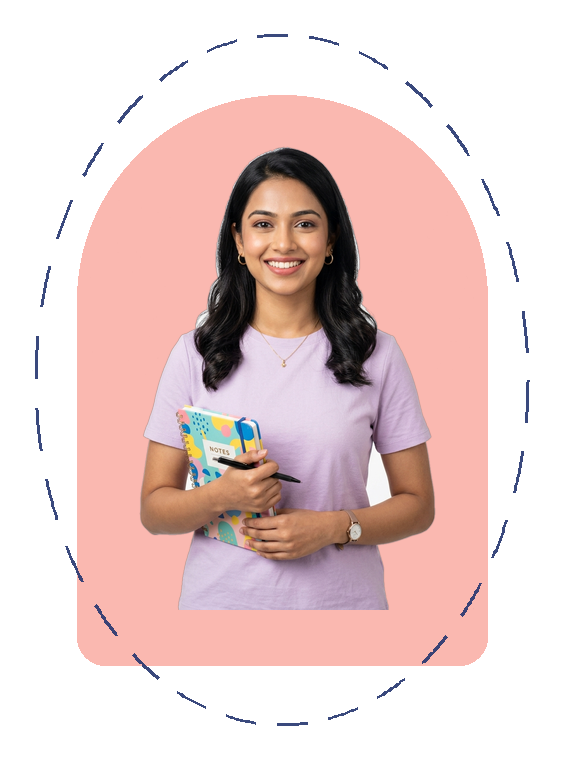
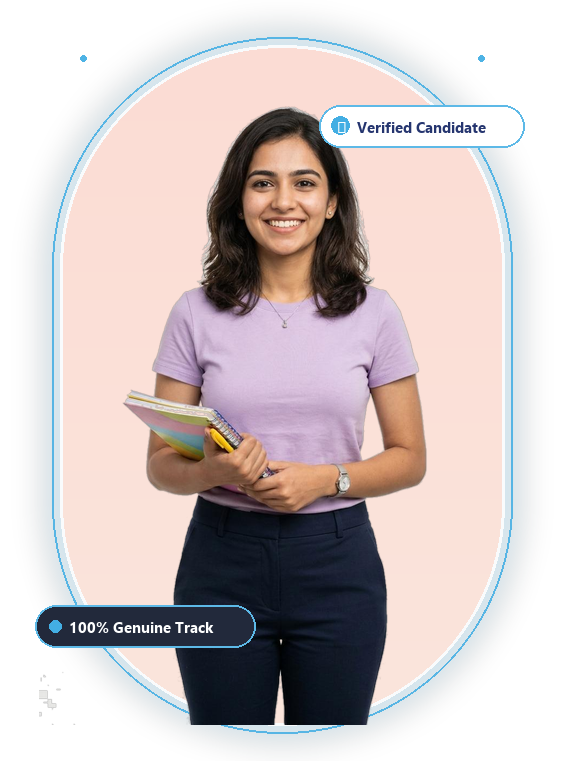
Upgrade hero text visibility to crisp high-contrast white/cyan, transform navbar into floating transparent frosted glass pill, and refine student arch portrait with grounded trousers, halo glow, and verified chips

diff --git a/index.html b/index.html
@@ -286,14 +286,15 @@ img:is([sizes=auto i],[sizes^="auto," i]){contain-intrinsic-size:3000px 1500px}
 			font-family: 'Space Grotesk', system-ui, -apple-system, sans-serif !important;
 		}
 
-		/* 1. Hero Section (Stronger, bolder, high-impact) */
+		/* 1. Hero Section (Ultra-Crisp, High-Contrast & Readable on Dark Hero Canvas) */
 		.banner-content h1 {
 			font-family: 'Space Grotesk', sans-serif !important;
 			font-weight: 700 !important;
 			font-size: clamp(2.5rem, 5vw, 3.75rem) !important;
 			letter-spacing: -0.03em !important;
 			line-height: 1.14 !important;
-			color: #25356F !important;
+			color: #FFFFFF !important;
+			text-shadow: 0 2px 14px rgba(0, 0, 0, 0.55) !important;
 			margin-bottom: 0.75rem !important;
 		}
 
@@ -303,6 +304,7 @@ img:is([sizes=auto i],[sizes^="auto," i]){contain-intrinsic-size:3000px 1500px}
 			font-size: clamp(1.2rem, 2.4vw, 1.55rem) !important;
 			letter-spacing: -0.015em !important;
 			color: #43AEE3 !important;
+			text-shadow: 0 2px 10px rgba(0, 0, 0, 0.4) !important;
 			margin-bottom: 1.25rem !important;
 			line-height: 1.35 !important;
 		}
@@ -313,8 +315,9 @@ img:is([sizes=auto i],[sizes^="auto," i]){contain-intrinsic-size:3000px 1500px}
 			font-weight: 400 !important;
 			font-size: 1.125rem !important; /* 18px */
 			line-height: 1.65 !important;
-			color: #475569 !important;
-			max-width: 600px;
+			color: #E2E8F0 !important; /* Ultra-crisp light slate with high contrast */
+			text-shadow: 0 1px 8px rgba(0, 0, 0, 0.5) !important;
+			max-width: 620px;
 			margin-bottom: 2rem !important;
 		}
 
@@ -514,6 +517,85 @@ img:is([sizes=auto i],[sizes^="auto," i]){contain-intrinsic-size:3000px 1500px}
 		}
 		section[id] {
 			scroll-margin-top: 105px !important;
+		}
+
+		/* ===== Ultra-Premium Transparent Frosted Glass Floating Navbar ===== */
+		.header-section {
+			position: sticky !important;
+			top: 1.25rem !important;
+			z-index: 99999 !important;
+			transition: all 0.35s cubic-bezier(0.16, 1, 0.3, 1) !important;
+		}
+
+		.header-section .header-section-inner {
+			background: rgba(255, 255, 255, 0.68) !important;
+			backdrop-filter: blur(16px) saturate(180%) !important;
+			-webkit-backdrop-filter: blur(16px) saturate(180%) !important;
+			border: 1px solid rgba(255, 255, 255, 0.65) !important;
+			border-radius: 50rem !important;
+			box-shadow: 0 10px 32px -8px rgba(15, 23, 42, 0.10), inset 0 1px 0 0 rgba(255, 255, 255, 0.95) !important;
+			padding: 0.5rem 1.75rem !important;
+			min-height: 64px !important;
+			transition: all 0.35s cubic-bezier(0.16, 1, 0.3, 1) !important;
+		}
+
+		.header-section.scrolled .header-section-inner {
+			background: rgba(255, 255, 255, 0.88) !important;
+			backdrop-filter: blur(20px) saturate(190%) !important;
+			-webkit-backdrop-filter: blur(20px) saturate(190%) !important;
+			border: 1px solid rgba(226, 232, 240, 0.85) !important;
+			box-shadow: 0 14px 38px -8px rgba(37, 53, 111, 0.14) !important;
+			padding: 0.4rem 1.75rem !important;
+		}
+
+		.header-section .navbar-nav .nav-link {
+			color: #0F172A !important;
+			font-weight: 500 !important;
+			font-size: 0.95rem !important;
+			padding: 0.45rem 0.9rem !important;
+			border-radius: 50rem !important;
+			transition: all 0.25s ease !important;
+		}
+
+		.header-section .navbar-nav .nav-link:hover,
+		.header-section .navbar-nav .nav-link.active {
+			color: #43AEE3 !important;
+			background: rgba(67, 174, 227, 0.10) !important;
+		}
+
+		.header-section .btn-black {
+			background: #25356F !important;
+			color: #FFFFFF !important;
+			border-radius: 50rem !important;
+			padding: 0.65rem 1.6rem !important;
+			font-size: 0.875rem !important;
+			font-weight: 700 !important;
+			letter-spacing: 0.04em !important;
+			box-shadow: 0 4px 14px rgba(37, 53, 111, 0.25) !important;
+			transition: all 0.3s ease !important;
+			border: none !important;
+		}
+
+		.header-section .btn-black:hover {
+			background: #43AEE3 !important;
+			color: #FFFFFF !important;
+			transform: translateY(-2px) !important;
+			box-shadow: 0 6px 22px rgba(67, 174, 227, 0.48) !important;
+		}
+
+		@media (max-width: 1199px) {
+			.header-section .header-section-inner {
+				border-radius: 1.25rem !important;
+				padding: 0.6rem 1rem !important;
+			}
+			.header-section .navbar-collapse {
+				background: rgba(255, 255, 255, 0.96) !important;
+				backdrop-filter: blur(20px) !important;
+				-webkit-backdrop-filter: blur(20px) !important;
+				border-radius: 1rem !important;
+				border: 1px solid rgba(226, 232, 240, 0.9) !important;
+				box-shadow: 0 15px 35px rgba(0,0,0,0.15) !important;
+			}
 		}
 	</style>
 
@@ -1323,7 +1405,7 @@ img:is([sizes=auto i],[sizes^="auto," i]){contain-intrinsic-size:3000px 1500px}
 				<div class="row">
 					<div class="col-12 col-lg-6">
 						<div class="image-box scroll-reveal-zoom">
-							<img src="assets/images/student-girl-img-1.png?v=8" alt="Solvanta Career Student">
+							<img src="assets/images/student-girl-img-1.png?v=9" alt="Solvanta Career Student">
 						</div>
 					</div>
 					<div class="col-12 col-lg-6">
